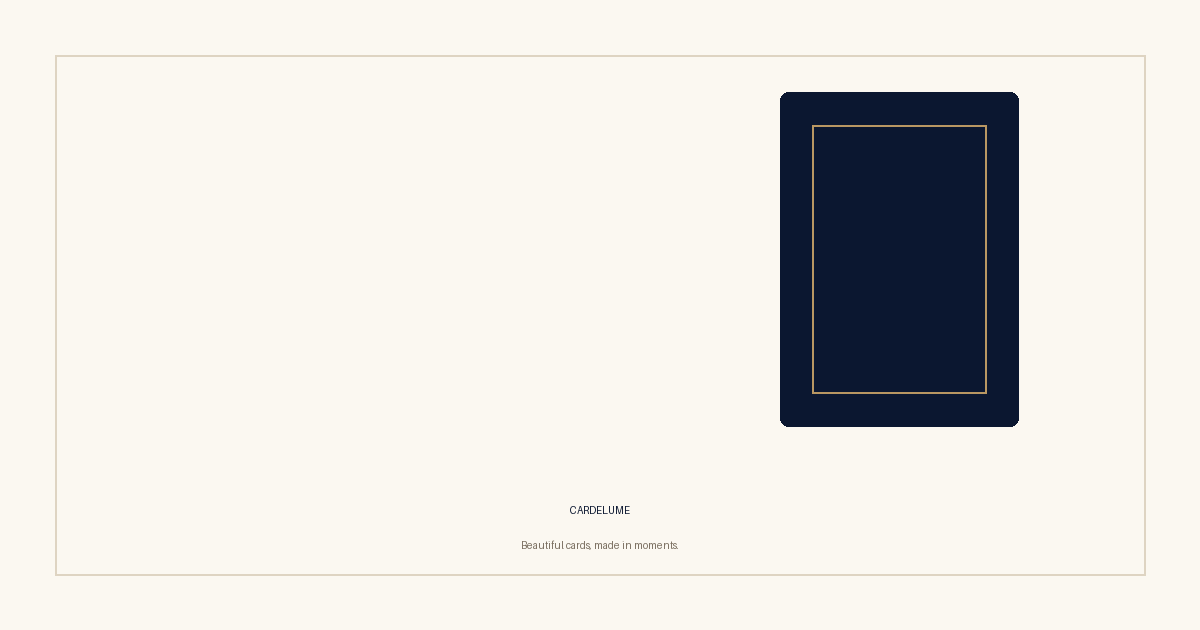
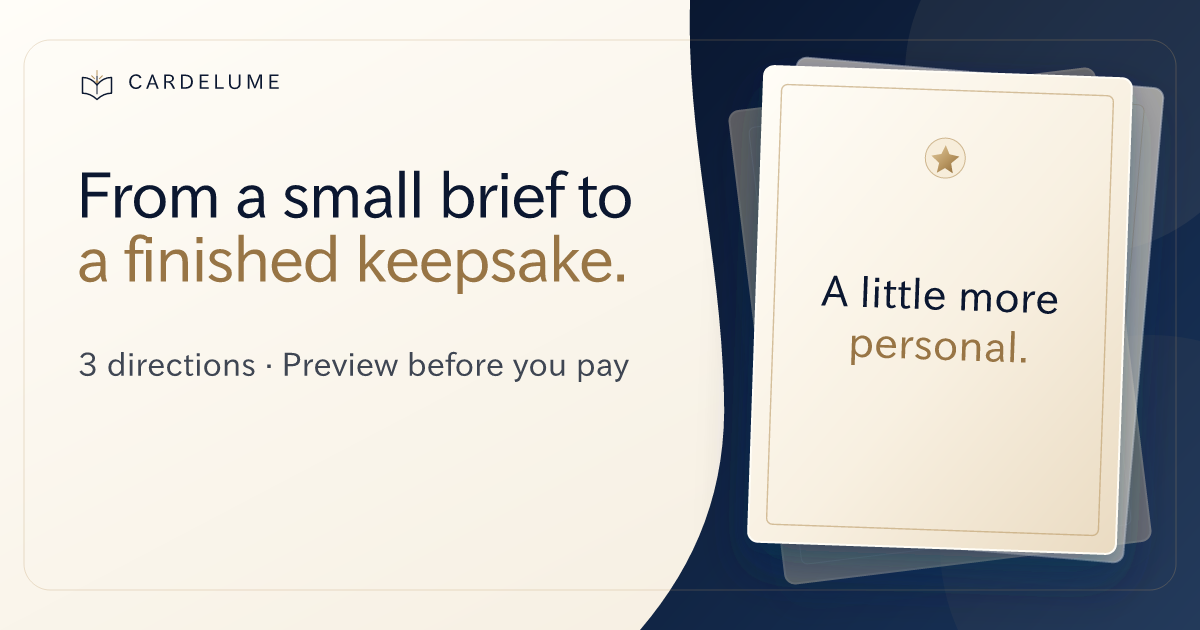
[#P20M1T03] Promote approved OG product-proof asset

diff --git a/.ai/MASTER_PLAN.md b/.ai/MASTER_PLAN.md
@@ -11,7 +11,7 @@
 | Area | Status | Meaning |
 |---|---|---|
 | Phase 19 Premium/WOW | `DONE — PASS_FOR_MVP` | Owner accepted MVP progression only; not Final Golden or production-template approval. |
-| Phase 20 Buyer Confidence Core | `ACTIVE` | T01, T02, T04, T05 and T06 verified; T03 waits for Owner visual approval; core browser gate remains. |
+| Phase 20 Buyer Confidence Core | `ACTIVE` | T01, T02, T03, T04, T05 and T06 verified; core browser gate remains. |
 | Help me choose | `DEFERRED_FEATURE_OFF` | Optional; it must not block the core launch. |
 | Phase 21 Runtime Qualification | `PENDING` | No production runtime, payment, storage, queue or restore proof is complete. |
 | Phase 22 Soft/Public Launch | `PENDING` | Starts only after Phase 20 core and Phase 21 gates pass. |
@@ -19,7 +19,7 @@
 
 ### Current next action
 
-`Need approval`: Owner visual approval of the product-specific OpenGraph candidate. After approval, update the tracked OG asset/metadata and run the core buyer-journey gate. Do not start Phase 21 automatically.
+`Do now`: run `P20M3T01`, the core buyer-journey/browser/accessibility/performance gate. Do not start Phase 21 automatically.
 
 ## Product contract and non-goals
 
@@ -42,7 +42,7 @@ Deferred until evidence justifies them: `N=30`, Final Golden, evaluator infrastr
 - Phase 19 closure evidence: `.ai/evidence/phase19-mvp-closure.json` and `/home/pi5/hermes-artifacts/cardelume/phase19/P19M1T03-CODEX-REWORK-20260830T053726Z/`.
 - Phase 20 baseline evidence: `/home/pi5/hermes-artifacts/browser-evidence/cardelume/phase20-baseline/3fb66eb841ec6907230e997e89e2d2e612bbc9db/`.
 - Template Admin presentation-only follow-up evidence: `.ai/TEMPLATE_ADMIN_SIMPLIFICATION_PLAN.md`.
-- Candidate OG asset, not tracked production asset: `/home/pi5/hermes-artifacts/cardelume/phase20/P20M1T03/og-card-candidate.svg`.
+- `P20M1T03` Owner-approved v3 PNG promoted to `apps/web/public/brand/og-card.png`; `apps/web/app/layout.tsx` already had valid same-origin `1200×630` OpenGraph metadata. Evidence: `.ai/evidence/phase20-p20m1t03-og.json`.
 
 Phase 19 Owner result:
 
@@ -64,16 +64,12 @@ Phase 19 Owner result:
 - `P20M1T04`: readable body floor is sourced from `@cardelume/card-schema`; renderer/stress contract covers long Latin, CJK/Hangul/Vietnamese, photo and lower-capability paths. Independent stress: PASS, `5` formats, `10.4 CSS px`, `32 render px`.
 - `P20M1T05`: customer-facing A/B/C diversity guard requires three family IDs, three visual directions and at least two effective archetypes; pre-critic and post-repair paths are guarded. Independent stress and AI/templates checks: PASS.
 - `P20M1T06`: Case 06 review-fixture/context metadata is hash-bound without model rerun or raw-artifact replacement. Packet remains an evidence artifact; no new Owner approval is inferred.
+- `P20M1T03`: Owner-approved product-specific OG v3 promoted with candidate/target SHA-256 match; reduced-preview, metadata, provenance, `git diff --check` and production build PASS. Evidence: `.ai/evidence/phase20-p20m1t03-og.json`.
 - Template Admin follow-up: presentation-only catalog-first/progressive-disclosure work accepted by Owner; auth/API/lifecycle/launch/eligibility semantics were preserved. Details remain in `.ai/TEMPLATE_ADMIN_SIMPLIFICATION_PLAN.md`.
 
 ### Remaining core work
 
-1. **P20M1T03 — OpenGraph product proof (`BLOCKED`)**
-   - Candidate exists as artifact-only SVG. The tracked `apps/web/public/brand/og-card.png` and `apps/web/app/layout.tsx` remain unchanged.
-   - Owner must approve the visual candidate before any tracked asset or metadata replacement.
-   - After approval: verify common social-preview crops, metadata resolution, build and provenance; no fake testimonial/rating/physical-shipping implication.
-
-2. **P20M3T01 — Core buyer-journey gate (`PENDING`)**
+1. **P20M3T01 — Core buyer-journey gate (`PENDING`)**
    - Verify homepage → brief → reveal → results → finish → checkout boundary at `390×844`, `768×1024`, `1440×900`, plus loading/fallback/empty/error, keyboard, screen-reader, 200% zoom and reduced motion.
    - Required gate: no P0/P1 defect, no overflow or blocked primary action, trust text ≥`12 CSS px`, primary targets ≥`44×44 CSS px`, lab LCP ≤`2.5s`, CLS ≤`0.1`, no key Studio long task >`200ms`, and no unapproved >`10%` regression from the frozen baseline.
    - Automated browser mutation is not authorized. Owner performs final authenticated visual/UX acceptance manually; read-only local probes require explicit authorization.
@@ -92,7 +88,7 @@ CORE_BROWSER_ACCESSIBILITY_PERFORMANCE PASS
 HELP_ME_CHOOSE PASS | DEFERRED_FEATURE_OFF
 ```
 
-`P20M1T03` Owner approval and `P20M3T01` evidence are still required for the core gate. Source/build PASS is not runtime or production approval.
+`P20M1T03` is verified. `P20M3T01` evidence remains required for the core gate. Source/build PASS is not runtime or production approval.
 
 ## Phase 21 — Controlled Runtime Qualification
 

diff --git a/MASTERPLAN.MD b/MASTERPLAN.MD
@@ -11,7 +11,7 @@
 | Area | Status | Meaning |
 |---|---|---|
 | Phase 19 Premium/WOW | `DONE — PASS_FOR_MVP` | Owner accepted MVP progression only; not Final Golden or production-template approval. |
-| Phase 20 Buyer Confidence Core | `ACTIVE` | T01, T02, T04, T05 and T06 verified; T03 waits for Owner visual approval; core browser gate remains. |
+| Phase 20 Buyer Confidence Core | `ACTIVE` | T01, T02, T03, T04, T05 and T06 verified; core browser gate remains. |
 | Help me choose | `DEFERRED_FEATURE_OFF` | Optional; it must not block the core launch. |
 | Phase 21 Runtime Qualification | `PENDING` | No production runtime, payment, storage, queue or restore proof is complete. |
 | Phase 22 Soft/Public Launch | `PENDING` | Starts only after Phase 20 core and Phase 21 gates pass. |
@@ -19,7 +19,7 @@
 
 ### Current next action
 
-`Need approval`: Owner visual approval of the product-specific OpenGraph candidate. After approval, update the tracked OG asset/metadata and run the core buyer-journey gate. Do not start Phase 21 automatically.
+`Do now`: run `P20M3T01`, the core buyer-journey/browser/accessibility/performance gate. Do not start Phase 21 automatically.
 
 ## Product contract and non-goals
 
@@ -42,7 +42,7 @@ Deferred until evidence justifies them: `N=30`, Final Golden, evaluator infrastr
 - Phase 19 closure evidence: `.ai/evidence/phase19-mvp-closure.json` and `/home/pi5/hermes-artifacts/cardelume/phase19/P19M1T03-CODEX-REWORK-20260830T053726Z/`.
 - Phase 20 baseline evidence: `/home/pi5/hermes-artifacts/browser-evidence/cardelume/phase20-baseline/3fb66eb841ec6907230e997e89e2d2e612bbc9db/`.
 - Template Admin presentation-only follow-up evidence: `.ai/TEMPLATE_ADMIN_SIMPLIFICATION_PLAN.md`.
-- Candidate OG asset, not tracked production asset: `/home/pi5/hermes-artifacts/cardelume/phase20/P20M1T03/og-card-candidate.svg`.
+- `P20M1T03` Owner-approved v3 PNG promoted to `apps/web/public/brand/og-card.png`; `apps/web/app/layout.tsx` already had valid same-origin `1200×630` OpenGraph metadata. Evidence: `.ai/evidence/phase20-p20m1t03-og.json`.
 
 Phase 19 Owner result:
 
@@ -64,16 +64,12 @@ Phase 19 Owner result:
 - `P20M1T04`: readable body floor is sourced from `@cardelume/card-schema`; renderer/stress contract covers long Latin, CJK/Hangul/Vietnamese, photo and lower-capability paths. Independent stress: PASS, `5` formats, `10.4 CSS px`, `32 render px`.
 - `P20M1T05`: customer-facing A/B/C diversity guard requires three family IDs, three visual directions and at least two effective archetypes; pre-critic and post-repair paths are guarded. Independent stress and AI/templates checks: PASS.
 - `P20M1T06`: Case 06 review-fixture/context metadata is hash-bound without model rerun or raw-artifact replacement. Packet remains an evidence artifact; no new Owner approval is inferred.
+- `P20M1T03`: Owner-approved product-specific OG v3 promoted with candidate/target SHA-256 match; reduced-preview, metadata, provenance, `git diff --check` and production build PASS. Evidence: `.ai/evidence/phase20-p20m1t03-og.json`.
 - Template Admin follow-up: presentation-only catalog-first/progressive-disclosure work accepted by Owner; auth/API/lifecycle/launch/eligibility semantics were preserved. Details remain in `.ai/TEMPLATE_ADMIN_SIMPLIFICATION_PLAN.md`.
 
 ### Remaining core work
 
-1. **P20M1T03 — OpenGraph product proof (`BLOCKED`)**
-   - Candidate exists as artifact-only SVG. The tracked `apps/web/public/brand/og-card.png` and `apps/web/app/layout.tsx` remain unchanged.
-   - Owner must approve the visual candidate before any tracked asset or metadata replacement.
-   - After approval: verify common social-preview crops, metadata resolution, build and provenance; no fake testimonial/rating/physical-shipping implication.
-
-2. **P20M3T01 — Core buyer-journey gate (`PENDING`)**
+1. **P20M3T01 — Core buyer-journey gate (`PENDING`)**
    - Verify homepage → brief → reveal → results → finish → checkout boundary at `390×844`, `768×1024`, `1440×900`, plus loading/fallback/empty/error, keyboard, screen-reader, 200% zoom and reduced motion.
    - Required gate: no P0/P1 defect, no overflow or blocked primary action, trust text ≥`12 CSS px`, primary targets ≥`44×44 CSS px`, lab LCP ≤`2.5s`, CLS ≤`0.1`, no key Studio long task >`200ms`, and no unapproved >`10%` regression from the frozen baseline.
    - Automated browser mutation is not authorized. Owner performs final authenticated visual/UX acceptance manually; read-only local probes require explicit authorization.
@@ -92,7 +88,7 @@ CORE_BROWSER_ACCESSIBILITY_PERFORMANCE PASS
 HELP_ME_CHOOSE PASS | DEFERRED_FEATURE_OFF
 ```
 
-`P20M1T03` Owner approval and `P20M3T01` evidence are still required for the core gate. Source/build PASS is not runtime or production approval.
+`P20M1T03` is verified. `P20M3T01` evidence remains required for the core gate. Source/build PASS is not runtime or production approval.
 
 ## Phase 21 — Controlled Runtime Qualification
 

diff --git a/tasks.md b/tasks.md
@@ -11,7 +11,7 @@ This file contains only unfinished executable work plus compact completion ancho
 | Area | Status | Next condition |
 |---|---|---|
 | Phase 19 Premium/WOW | `PASS_FOR_MVP` — closed | No N=12 rerun, N=30, Final Golden or evaluator infrastructure from this result. |
-| Phase 20 core | `ACTIVE` | T03 Owner visual approval, then M3A browser/accessibility/performance gate. |
+| Phase 20 core | `ACTIVE` | T03 is verified; run M3A browser/accessibility/performance gate. |
 | Help me choose | `DEFERRED_FEATURE_OFF` | Decompose/implement only after explicit Owner activation. |
 | Phase 21 runtime | `PENDING` | Start only after Phase 20 core PASS and bounded staging authorization. |
 | Phase 22 launch | `PENDING` | Start only after Phase 21 and production-readiness gates PASS. |
@@ -41,18 +41,18 @@ This file contains only unfinished executable work plus compact completion ancho
 **Depends on:** `[#P20M1T02]`
 **Parallel-safe:** `yes` after T02; tracked replacement is approval-gated.
 
-**Current evidence:** Candidate only: `/home/pi5/hermes-artifacts/cardelume/phase20/P20M1T03/og-card-candidate.svg`. Tracked `og-card.png` and `layout.tsx` remain unchanged.
+**Current evidence:** Owner-approved v3 PNG promoted to `apps/web/public/brand/og-card.png`; metadata in `layout.tsx` already resolved the same-origin asset and required dimensions. Evidence: `.ai/evidence/phase20-p20m1t03-og.json`.
 
 **Concrete changes:**
-1. Request/record Owner visual approval for the candidate.
-2. Only after approval, replace the tracked asset and update metadata if required.
-3. Verify 1200×630 and reduced social-preview crops, same-origin metadata resolution, provenance and production build.
+1. Owner visual approval recorded for the final v3 candidate.
+2. Promoted the approved PNG; `layout.tsx` required no change because its metadata already points to `/brand/og-card.png` at `1200×630`.
+3. Verified 1200×630, reduced social-preview crop, same-origin metadata resolution, candidate→tracked provenance, `git diff --check` and production build.
 
 **Constraints:** No fake UI/testimonial/rating, unapproved or unlicensed asset, physical-shipping implication or production deploy. Do not replace the tracked asset before Owner approval.
 
 **Definition of Done:** Owner approval is recorded; tracked asset/metadata, crop evidence and build pass; `git diff --check` passes; no production deployment is implied.
 
-**Status:** `[!]`
+**Status:** `[x]`
 
 ---
 
